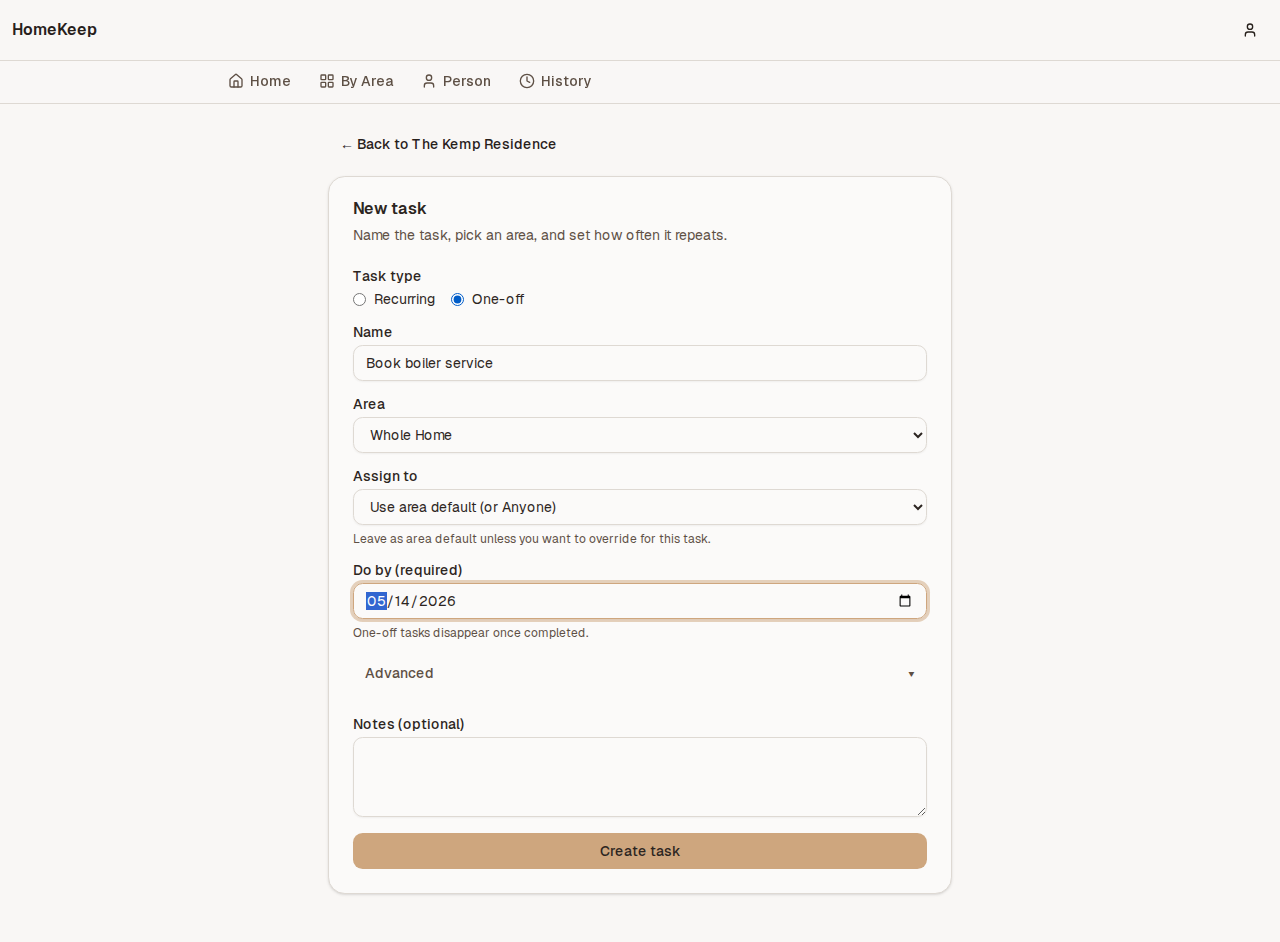
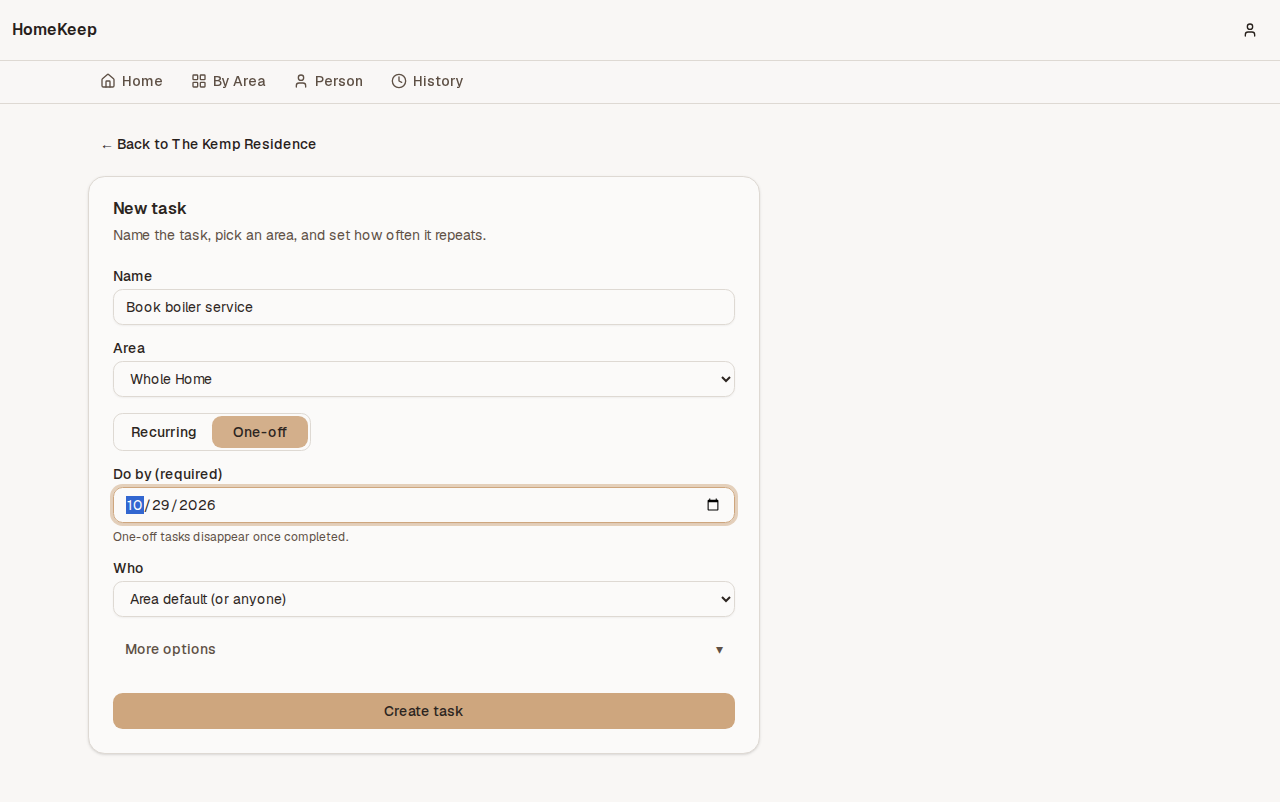
docs(planning): handoff for the functioning-properly branch; after-screenshots; refreshed README screenshots

diff --git a/.planning/HANDOFF-2026-10-09-functioning.md b/.planning/HANDOFF-2026-10-09-functioning.md
@@ -1,0 +1,84 @@
+# Handoff — "functioning properly" branch (2026-10-09)
+
+Branch: `work/functioning` (65 commits on `master` at `db0f200`+plan), **local only, not pushed, not merged**.
+Plan: `.planning/PLAN-2026-10-09-functioning.md`. Review it argued from: `.planning/REVIEW-2026-10-09.md`.
+Execution ledger and every agent report/review: `.superpowers/sdd/functioning/` (git-ignored, on kizserv only).
+
+## What was done
+
+Seven Opus streams in parallel worktrees (A scheduler/tests, B onboarding/seeds, C task edits/PB_URL/Docker
+perms, D docs/security/release, E dependencies, F dark mode/desktop layout, G interaction/copy), merged,
+then three fix waves driven by a final whole-branch review and two scoped re-reviews.
+
+**Correctness**
+- Completing a task now places its next due date from *this* completion, not the previous one
+  (`lib/actions/completions.ts`). Pre-existing on master; an overdue task stayed overdue after you ticked it.
+  Found by inspecting the data behind a screenshot; the old E2E was written to avoid asserting it.
+- Scheduler reads the full task projection and the home timezone; notifications match the dashboard.
+  Single tick guard on `globalThis`; `ref_cycle` keyed on the home-timezone date (one duplicate push per
+  already-notified task on first tick after upgrade; noted in README).
+- Seasonal scheduling: tz-safe window-open dates; in-season tasks no longer skip a year; tasks never
+  completed, or last done in a prior season, become due at the window start, not months late; a stale
+  smoothed date no longer overrides dormancy.
+- Editing a task's frequency/mode/season clears its stale smoothed date; one-off reschedule moves `due_date`;
+  one-off tasks appear in the dashboard bands; the edit page no longer drops season/due-date values.
+- History "Today/Yesterday" keys computed in the home timezone only.
+- Test suite is hermetic: vitest pins `TZ=UTC`, every integration test has a unique PocketBase port,
+  20 s test timeout; **812/812 pass under UTC and under Australia/Melbourne**.
+- Docker: `fix-perms` oneshot repairs `./data` ownership at boot (verified with a non-1000 bind mount);
+  `PB_URL` env override; `TZ` documented.
+
+**UI/UX** (owner's priority)
+- Onboarding creates real areas (Kitchen, Bathroom, Living areas, Yard) and seeds land in them; By Area is
+  useful on day one. Seasonal seeds resolve by hemisphere from the home timezone (Perth: mowing Oct–Mar,
+  heater Apr–Sep). First-due dates spread across the cycle so the first dashboard isn't an avalanche.
+- Welcome card on first visit explains the three bands and offers "Invite someone".
+- One-tap complete button on every dashboard row (early-completion guard still applies; completion toast
+  names the task; no undo because completions are append-only). "Anyone" chip hidden so names fit at 390px.
+- Task form: Name, Area, Recurring/One-off, Frequency (with Daily and Every 2 weeks), Who; everything else
+  under "More options".
+- Dark mode (system/light/dark toggle in the account menu); two-column desktop dashboard; phone order and
+  reading order unchanged; horizon legend; plain-English due labels ("3 days late", "tomorrow").
+- Notification settings moved under Settings; Person page explains assignment.
+- Screenshots: `.planning/review-screens/after-v4/` (light) and `after-v3/*-dark.png`.
+
+**Repo truth**
+- README: signing claim corrected (1.3.0 is unsigned), demo/IP references removed, `./data` ownership note,
+  `PB_URL`/`TZ` documented, Project status rewritten, upgrade note. SECURITY.md: real channel (GitHub private
+  vulnerability reporting — you must enable it), versions table current. `globals.css` MIT → AGPL.
+  `FUNDING.yml` (`github: the-kizz` — enable Sponsors). Release workflow verifies the cosign signature.
+  Dependencies current (next 16.4, react 19.3, node-cron 4, PB SDK 0.28, zod 4.6…); `npm audit --omit=dev` = 0.
+
+## Verification on this host
+- `npm run lint` 0 errors / 0 warnings; `npm run typecheck` clean; `next build` green; image 309 MiB.
+- vitest 812/812 (UTC) and 812/812 (Australia/Melbourne).
+- Playwright against the Docker image (`E2E_BASE_URL=E2E_PB_URL=http://localhost:3999`): see the final
+  line appended below.
+
+## Rulings made on your behalf (undo any you disagree with)
+1. Parallel implementers with disjoint file ownership (your request); conflicts resolved at merge.
+2. Stream B could edit two unowned integration tests for the new seed contract.
+3. Seed areas use the existing palette icons/colours, not the plan's invented ones.
+4. Stream A merged the two hourly crons into one `runOnce` tick.
+5. `ref_cycle` keyed on home-timezone date; accept a one-time duplicate overdue push on upgrade.
+6. **No undo for one-tap complete** (append-only completions, SPEC §7.5); removed the button from the
+   Person list instead and named the task in the toast.
+7. Phone summary block rendered twice (phone/desktop copies) instead of CSS reordering, for reading order.
+8. "Anyone" assignee chip hidden; shown only for real assignees.
+9. Dormant seasonal task with a stale smoothed date returns "sleeping" (null), not a wake-up date.
+10. Wave-3 minor M1 (load self-exclusion day mismatch under snooze) parked: negligible effect.
+11. Controller edited two E2E assertions directly (`core-loop.spec.ts`) rather than dispatching an agent.
+12. Out of scope, unchanged: anchored tasks can never be overdue; rotation; CSP enforcement; moving
+    `.planning/` out of the tree; merging Dependabot PRs on GitHub.
+
+## What you need to do
+1. Read the diff (`git diff master..work/functioning --stat`), then merge to `master` and push when happy.
+   Tag `v1.4.0`; the release workflow now verifies the signature and will fail loudly if cosign skips.
+2. Delete the `homekeep.demo.the-kizz.com` A record; clear the GitHub homepage field; revoke the old PAT.
+3. GitHub → Settings → Security: enable Private vulnerability reporting; enable Sponsors.
+4. Existing installs: rows with a bad `next_due_smoothed` from the completion bug self-correct on the next
+   completion or a Settings → Scheduling → Rebalance. Expect one duplicate overdue push on the first tick.
+5. Worktrees `/home/claude/projects/homekeep-wt/{A..G}` and branches `fix/A..G` are kept for traceability;
+   `git worktree remove` them when done.
+
+**Final Playwright run (v4 image, 2026-10-09): 25 passed, 1 skipped (notifications Part 2, pre-existing skip), 0 failed.**

diff --git a/.planning/STATE.md b/.planning/STATE.md
@@ -16,6 +16,11 @@ progress:
 
 # Project State
 
+## Functioning-properly branch (2026-10-09)
+
+`work/functioning` (local, unmerged, unpushed) implements `.planning/PLAN-2026-10-09-functioning.md`.
+Handoff with verification, rulings and the owner checklist: `.planning/HANDOFF-2026-10-09-functioning.md`.
+
 ## Review note (2026-10-09)
 
 The Hetzner VPS and its session are gone; this checkout on kizserv is a fresh clone of `dd8de8e`.
